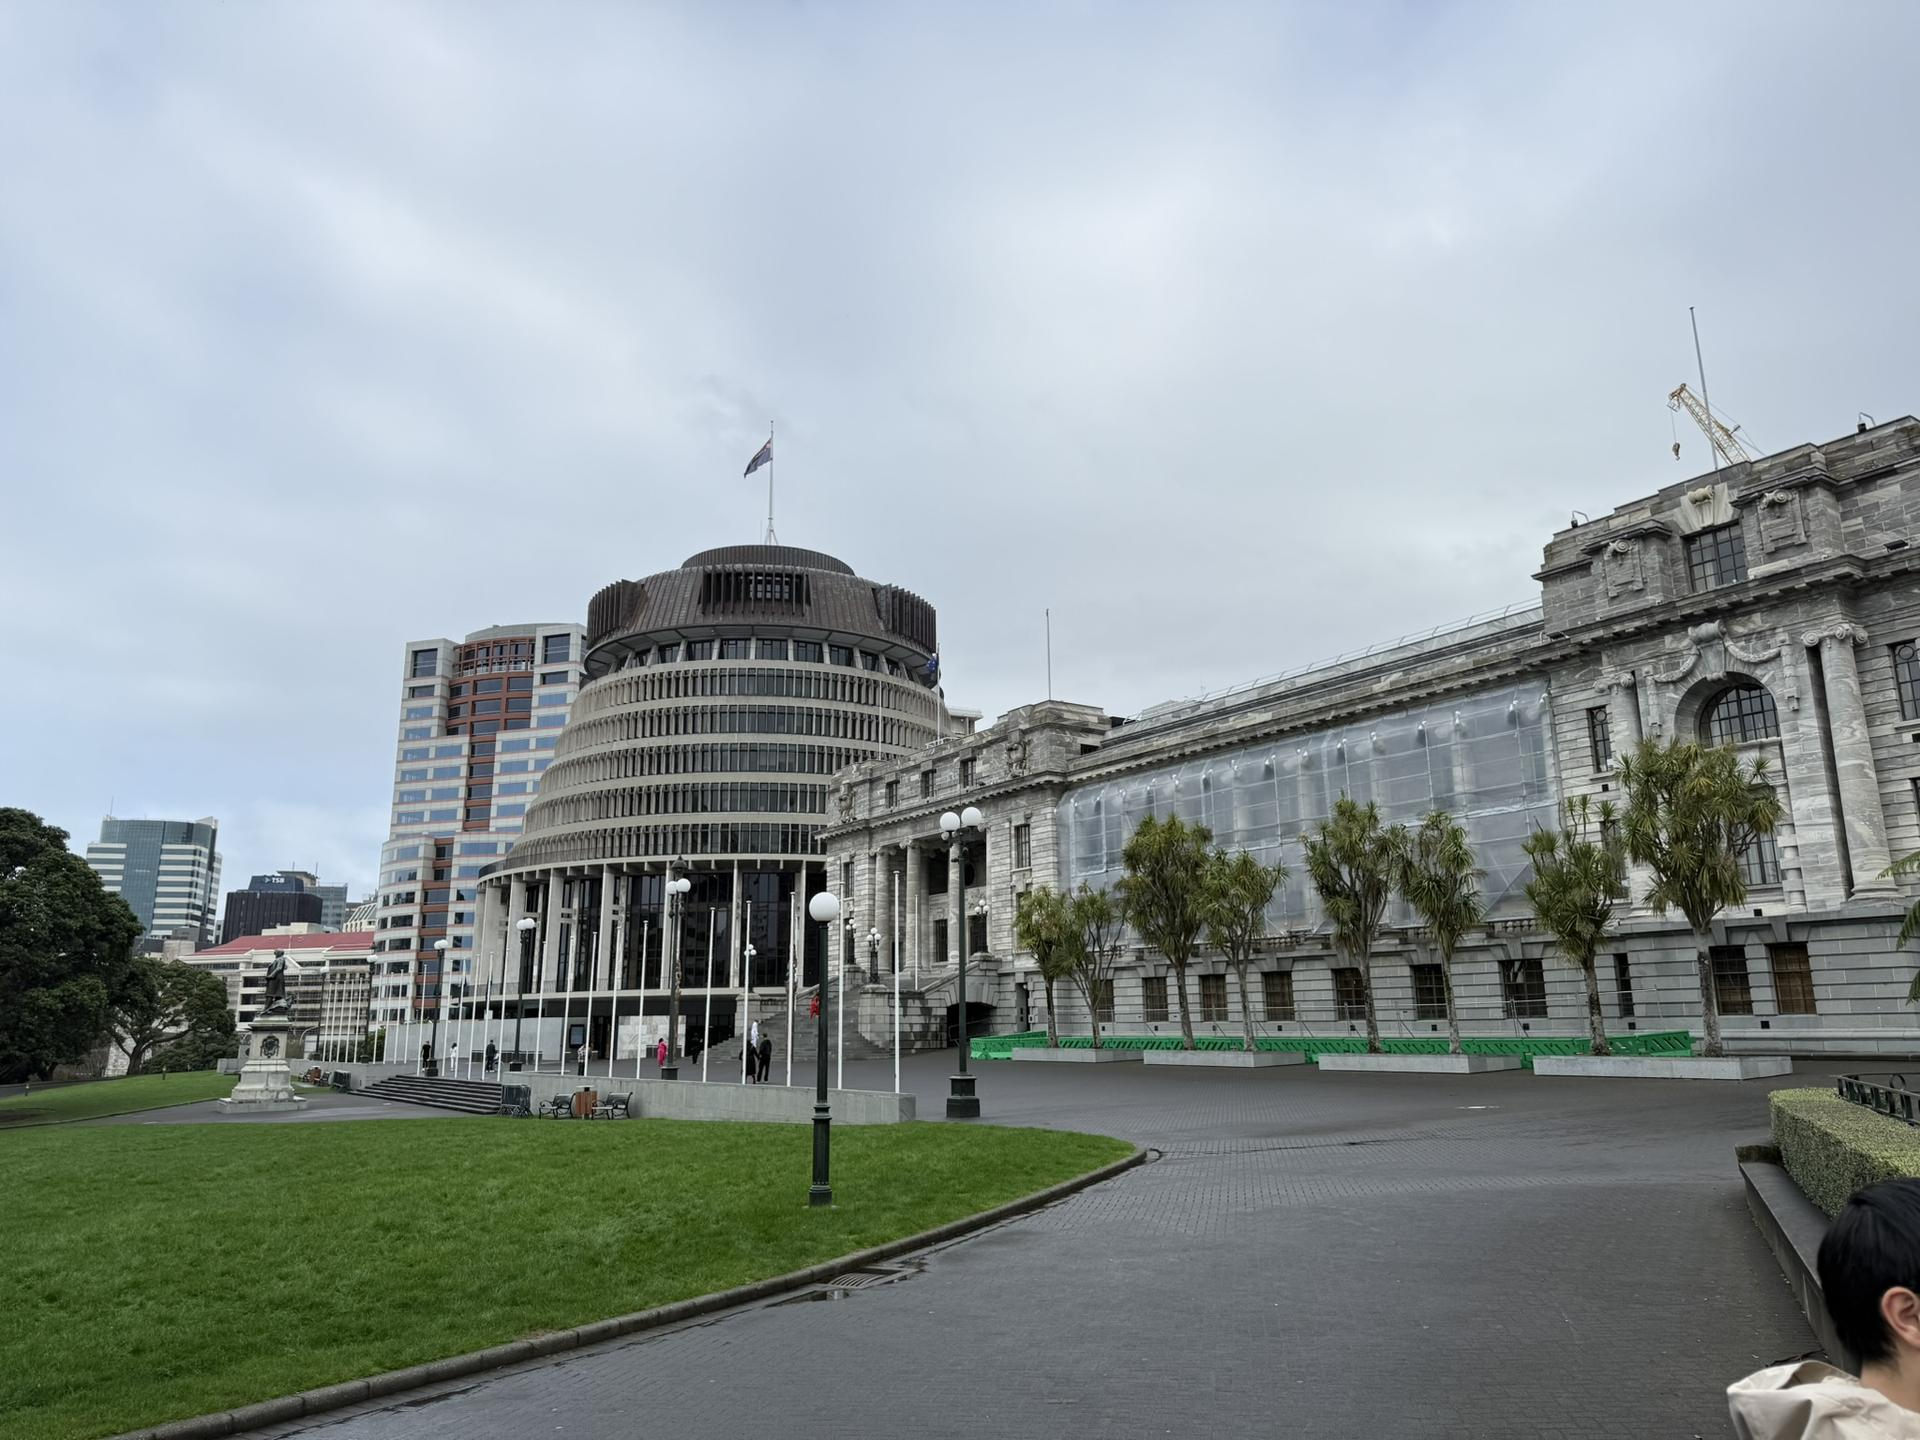
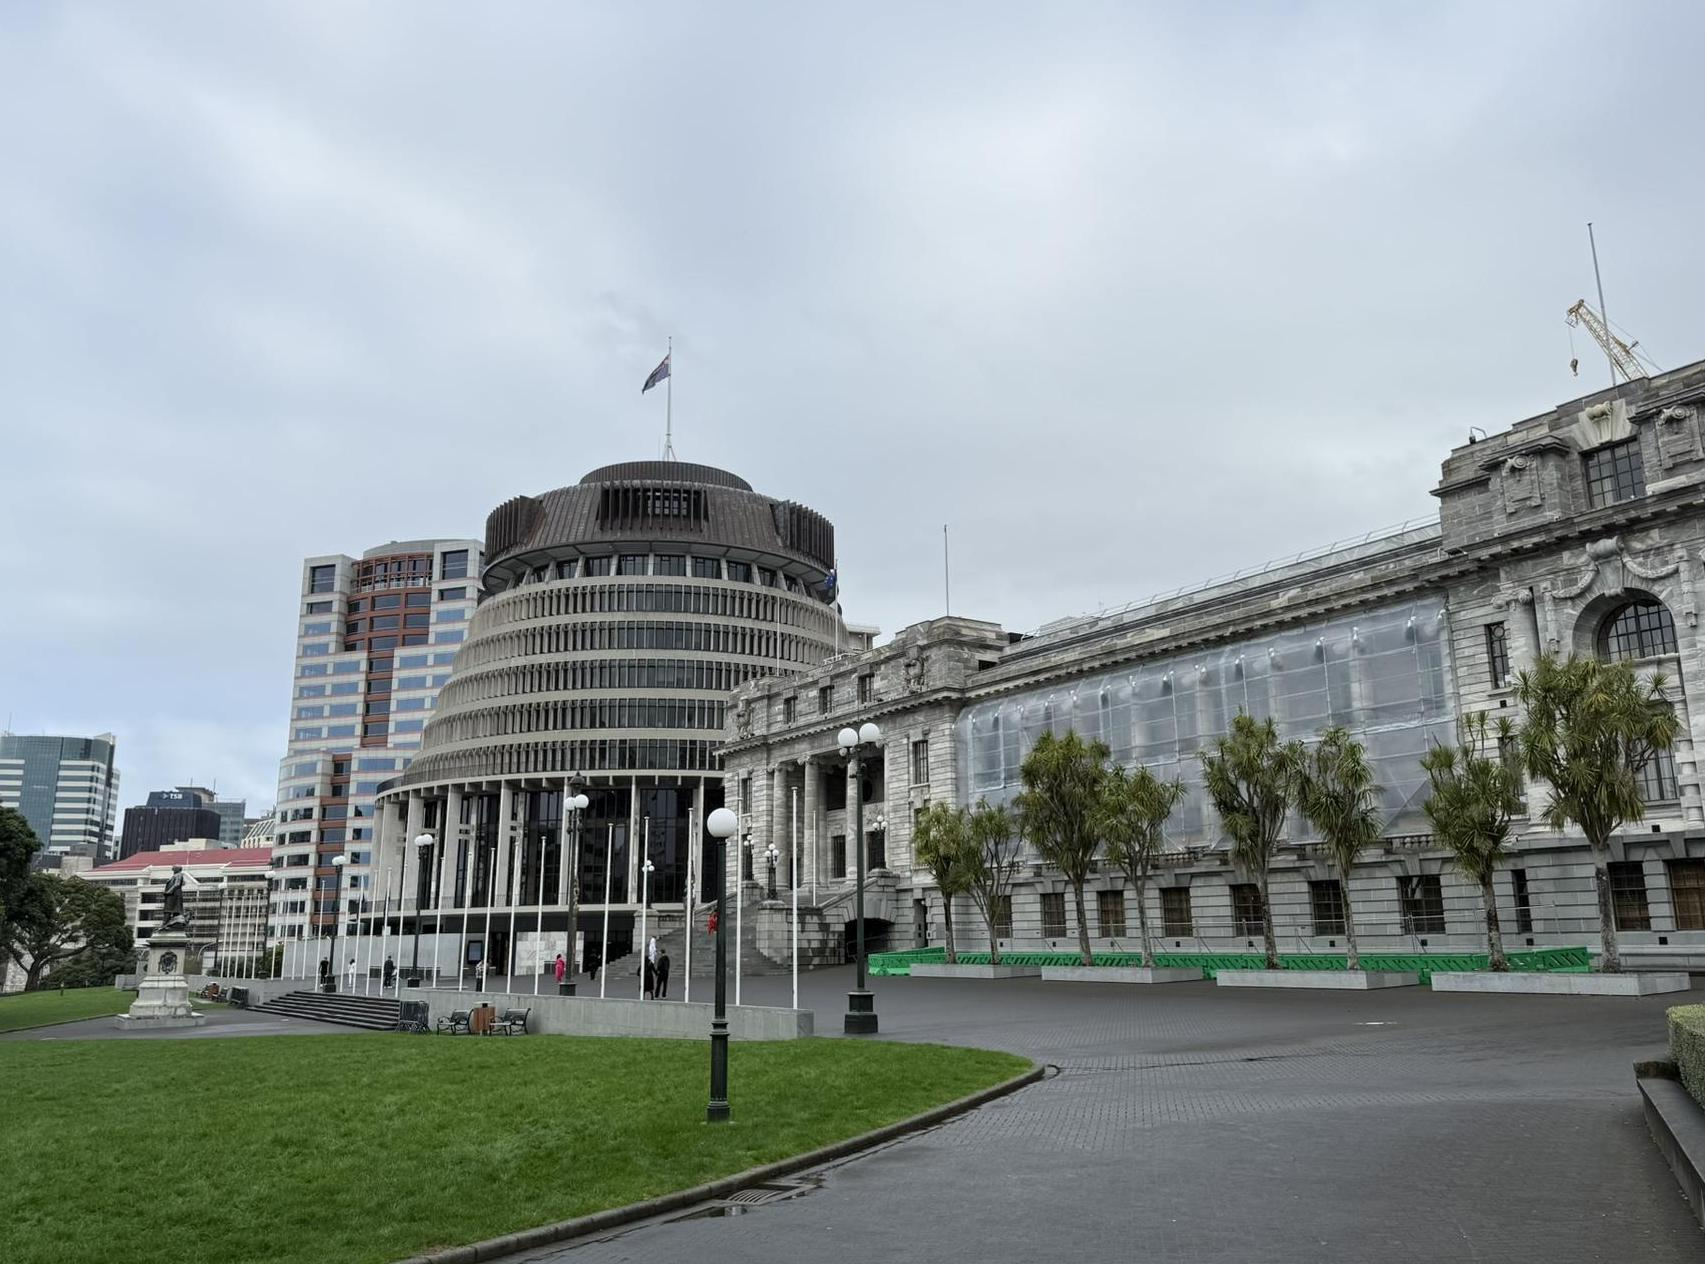
相册更新

diff --git a/src/pages/about.md b/src/pages/about.md
@@ -46,7 +46,7 @@ lang: "cn"
 ### Work Experience
 
 - July 2025 - Present
-  - NLP Algorithm Engineer @ **ZUOYEBANG - NLP Group 📚**   
+  - NLP Algorithm Engineer @ **ZUOYEBANG - NLP Group 💯**   
 - Jan 2025 - July 2025
   - Machine Learning Engineer (Intern) @ **Tencent Lightspeed Studios 🐧**  
 - May 2024 - Jan 2025
